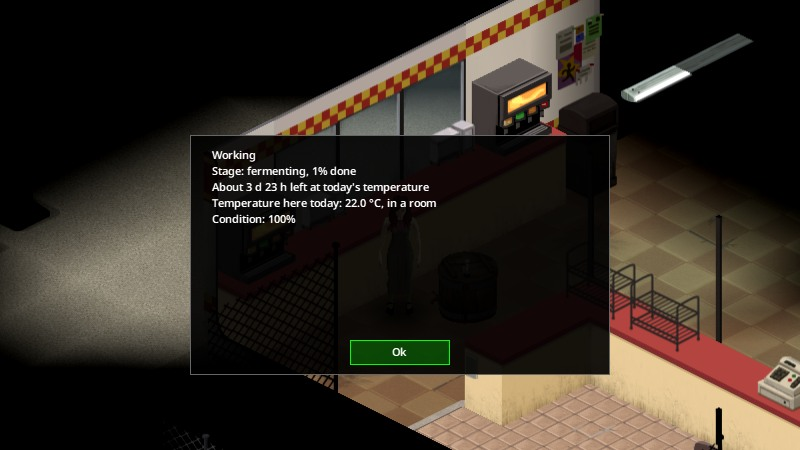
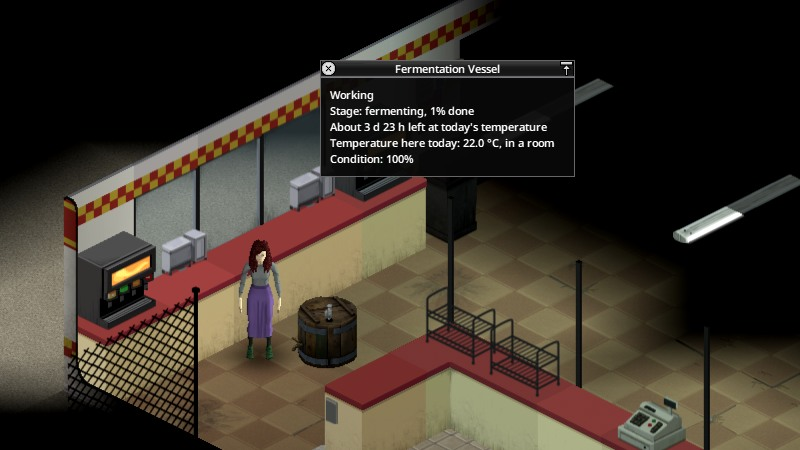
docs-shots photographs Status as a card; guide and Workshop pictures
The step that photographs the vessel's Status keeps the card open for
the photograph and checks the card (RT.DS.dialogShot, spec.card).

- docs/images/vessel-status.jpg and art-src/workshop/05-machine-status.jpg
  cut from the photograph of RT-SP launch 444
- tools/make-workshop-shots.ps1: cut 05 moved to 380,60
- player guide: the picture's text and caption; test results: launch 444

In game: RT-SP launch 444, docs-shots 68/0. Offline: tests 380/380,
compile 165 files.

Not run: make-workshop-shots.ps1 as a whole with the new cut; the other
Workshop cuts were not made again; the Workshop page still carries the
old picture 05.

diff --git a/docs/test-results.md b/docs/test-results.md
@@ -13,7 +13,7 @@ runtime tests.
 | RT-SP and RT-MP: with a machine's menu entry named after it (launches 432–435: `docs-shots`, `italian`, `controls`, `full`), the other single-player modes that open a machine's menu and every multiplayer case, whose harness lines changed; two machines under one click. The guide's `machine-menu.jpg` still shows "Machine (The Last Gallon)" | Written 2026-11-15, not launched since |
 | RT-SP and RT-MP: the manual's biodiesel and gas pages (UX review R7; the entries, the pages and the larger-print panel in single player, English and Italian: launches 436 and 437): the **Read: …** entries greyed in the dark or asleep and absent for a character who cannot read, a controller, the pages on a server's client; the biodiesel chain and a gas generator played from the in-game texts alone, the review's own check for R7 (offline: `test_manual_menu.lua`). The guide's `workshop-menu.jpg` is of 0.4.3 and lacks **Start: Gas generator conversion** | The harness opens the pages in the light, awake, with the mouse; the play-through is the owner's |
 | RT-SP: an item tooltip under the real pointer in the inventory, the tooltips of 16 of the 18 items on screen and all of them in Italian on screen (the game returns every text as shipped in both languages and draws the Pot Still's and the Fuel Sampling Kit's: launches 426–431) | The harness places the tooltip; it does not move the pointer |
-| RT-SP and RT-MP: a machine's **Status** as a card (UX review, section 5; opened, refreshed at speed 20, closed six tiles away and photographed in English on the pot still: launches 442 and 443): its text in Italian, dragging it and its cross with the mouse, its refresh at speed 1 after ten game minutes, its closing when the machine is picked up, the line of the machines it takes from on a biodiesel chain, several cards at once and their cost (each refresh writes the record; not measured), a second player's card in split screen, a server's client, where each refresh also sends the record to the clients (offline only: `test_machine_card.lua`, `test_biodiesel_commands.lua`). Every single-player mode that reads a machine's Status text now reads it from the card through the harness's capture, and only `controls` was run since; `docs-shots` photographs Status as a window and its `05` Workshop cut shows the old one | Only the `controls` mode has the step (`RT.cardStep`), on one machine in English |
+| RT-SP and RT-MP: a machine's **Status** as a card (UX review, section 5; opened, refreshed at speed 20, closed six tiles away and photographed in English on the pot still: launches 442 and 443): its text in Italian, dragging it and its cross with the mouse, its refresh at speed 1 after ten game minutes, its closing when the machine is picked up, the line of the machines it takes from on a biodiesel chain, several cards at once and their cost (each refresh writes the record; not measured), a second player's card in split screen, a server's client, where each refresh also sends the record to the clients (offline only: `test_machine_card.lua`, `test_biodiesel_commands.lua`). Every single-player mode that reads a machine's Status text now reads it from the card through the harness's capture, and only `controls` and `docs-shots` (launch 444) were run since | Only the `controls` mode has the step (`RT.cardStep`), on one machine in English |
 | RT-SP and RT-MP: the game's speed across the mod's windows and questions (UX review R14; the game's own window left 1 and the mod's left 3 when closed by the OK handler at speed 3: launch 440): a click on OK with the mouse and the speed buttons on screen, the yes/no questions (**Cancel the project**, **Remove the conversion**, a second **Abort batch**, a harmful pour; offline: `test_say.lua`), a paused game, a controller, a server's client | The `controls` mode's step calls the OK button's handler and reads the speed controls |
 | RT-SP and RT-MP: **Gas status** with the hours of gas left (UX review R11; on wood gas the text read and the estimate against the stop, 1 h against 1.97 h: launch 439): the window on a generator on propane and on one never switched on; whether the window (420x220) holds its longest line, in Italian; the estimate after the load changes (offline: `test_gas_feed.lua`, `test_gas_handlers.lua`, `test_gasifier_menu.lua`). The gas page of the manual names this line since; launches 436–437 photographed its earlier sentence | The gas modes read the window's text, not the screen; `gas-propane` not launched since |
 | RT-SP and RT-MP: **Pour into the station reservoir** and **Drain the generator into this can** as timed actions (UX review R13): the animation with the can in hand, the time taken, a drain stopped by walking away, the refusal shown after the action, both on a server, where the action's new last field (`source`) is sent to the server's copy and the pump goes as the object faced, as the game's own **Take Fuel** sends one. The drain plays the pour's animation and sound (offline: `test_mp_actions.lua`, `test_tank_menu.lua`; the drain entry queued and the 2 L moved in single player: launch 438) | The `gas-player` mode waits for the drain and reads the litres; no mode clicks the station pour |
@@ -9455,3 +9455,34 @@ The console holds no exception. Not run: as for launch 442.
 Evidence:
 [run 443](evidence/2026-11-15_rt-sp_harness_run443_controls_machine_card_grouped_42.22.2.txt),
 [the card](evidence/2026-11-15_run443_machine_card_grouped.png).
+
+## 2026-11-15 — RT-SP launch 444 (`docs-shots` with Status as a card)
+
+Branch `feature/gas-generators` at `38197ea`, the harness change not yet
+committed, 42.22.2. Command: `tools/run-sp-harness.ps1 -Mode docs-shots`.
+**68/0** (launch 432: 68/0).
+
+The step that photographs the vessel's Status (`RT.DS.status`) now keeps
+the card open for the photograph and checks the card; before, the
+harness's capture closed a card as soon as it was filled.
+
+* The card stood at 700,120, 255 by 117 pixels, titled "Fermentation
+  Vessel": Working, Stage: fermenting, 1% done, About 3 d 23 h left at
+  today's temperature, Temperature here today: 22.0 °C, in a room,
+  Condition: 100%. A vessel takes from no machine, so it has no "Takes
+  from" line.
+* The other eleven photographs were taken and their checks passed; only
+  the Status photograph was looked at.
+* From `tlg_rtds_vessel_status.png` of this launch: the guide's
+  `docs/images/vessel-status.jpg` (cut 560,100 480x350) and the Workshop
+  page's `art-src/workshop/05-machine-status.jpg` (cut 380,60 800x450,
+  now in `tools/make-workshop-shots.ps1`). The other Workshop cuts were
+  not made again.
+
+The console holds no exception. Not run: `make-workshop-shots.ps1` as a
+whole with the new cut (the two pictures were cut by hand with its
+settings); the Workshop page itself still carries the old picture 05
+until it is uploaded.
+
+Evidence:
+[run 444](evidence/2026-11-15_rt-sp_harness_run444_docs_shots_status_card_42.22.2.txt).

diff --git a/docs/player-guide.md b/docs/player-guide.md
@@ -519,9 +519,9 @@ stood still shows for how long, against the 3 days that spoil it.
 
 *The menu of a placed vessel with a batch running.*
 
-![Status of the vessel: Working, Stage: fermenting, Temperature here today: 22.0 °C, in a room](images/vessel-status.jpg)
+![The vessel's Status card, titled Fermentation Vessel: Working, Stage: fermenting, 1% done, About 3 d 23 h left at today's temperature, Temperature here today: 22.0 °C, in a room, Condition: 100%](images/vessel-status.jpg)
 
-*Its Status: fermenting in a room at 22 °C, with the power grid on.*
+*Its Status, a card that stays open: fermenting in a room at 22 °C, with the power grid on.*
 
 **Checked in game:** every recipe of the mod (the machines, the sampling
 kit, the filter cartridge and the stabilizer) found by name in the
